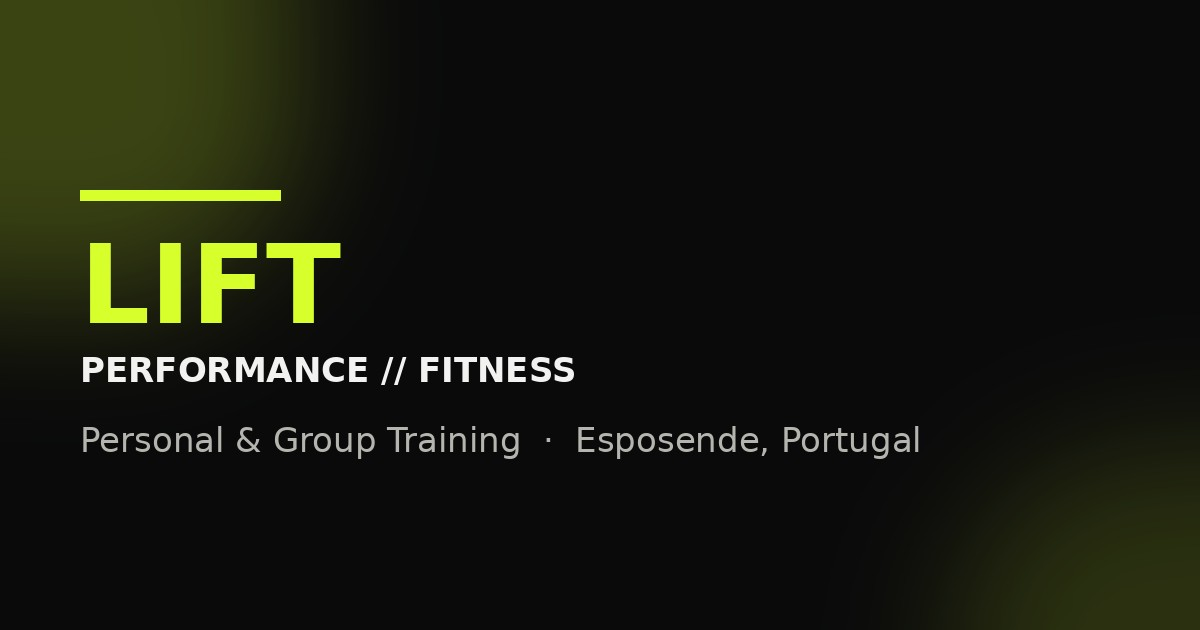
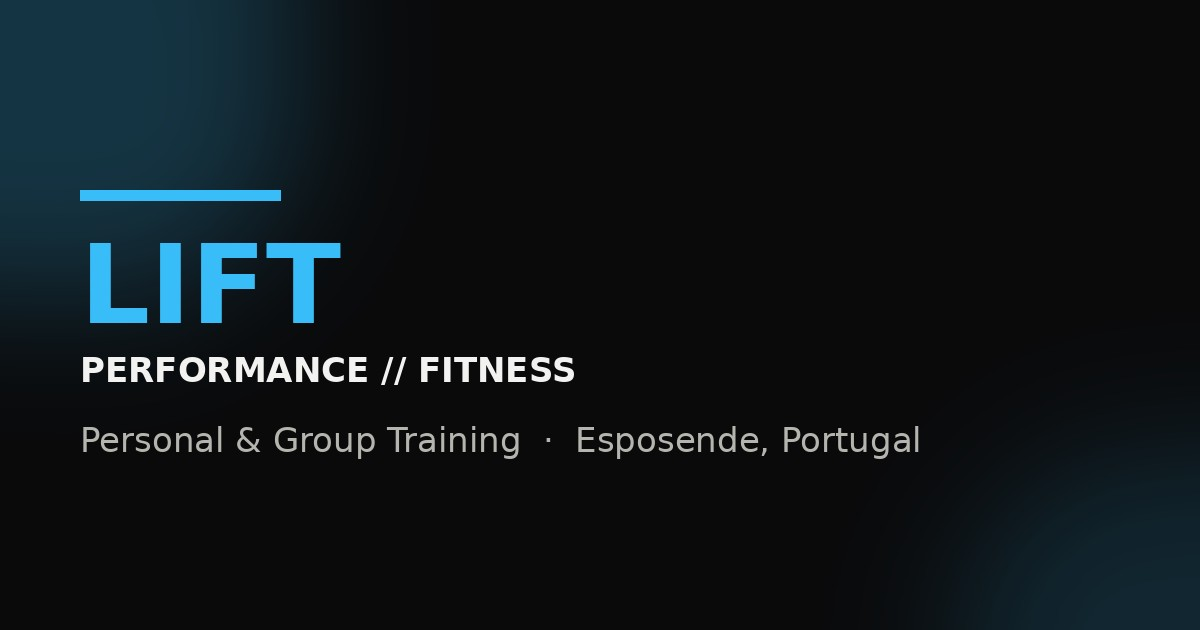
Swap accent color from lime to light blue
Renamed the --color-lift-lime CSS var (and its Tailwind utilities) to
--color-lift-blue and changed the value to a light/sky blue (#38bdf8,
dim #0ea5e9), replacing lime across every button, link, icon, and
badge. Also regenerated the favicon and OG image with the new color.

Claude-Session: https://claude.ai/code/session_01PQy3BjrcZzVoLCdcK5S7hn

Changed region(s): [[0.0, 0.0, 0.3083, 0.5429], [0.8325, 0.7841, 1.0, 1.0]]

diff --git a/src/routes/index.tsx b/src/routes/index.tsx
@@ -292,7 +292,7 @@ function LangToggle() {
           onClick={() => setLang(opt.value)}
           className={`rounded-full px-2.5 py-1 text-xs font-bold tracking-wide transition-colors ${
             lang === opt.value
-              ? 'bg-lift-lime text-ink'
+              ? 'bg-lift-blue text-ink'
               : 'text-white/60 hover:text-white'
           }`}
         >
@@ -326,7 +326,7 @@ function Header() {
       <div className="mx-auto flex max-w-6xl items-center justify-between px-5 py-4 sm:px-8">
         <a href="#top" className="text-xl font-black tracking-tight text-white">
           {BUSINESS_NAME}
-          <span className="text-lift-lime">.</span>
+          <span className="text-lift-blue">.</span>
         </a>
 
         <nav className="hidden items-center gap-7 lg:flex">
@@ -345,7 +345,7 @@ function Header() {
           <LangToggle />
           <a
             href={`tel:${PHONE_TEL}`}
-            className="rounded-full bg-lift-lime px-5 py-2.5 text-sm font-bold text-ink transition-transform hover:scale-105"
+            className="rounded-full bg-lift-blue px-5 py-2.5 text-sm font-bold text-ink transition-transform hover:scale-105"
           >
             {tr('nav_cta')}
           </a>
@@ -380,7 +380,7 @@ function Header() {
             <a
               href={`tel:${PHONE_TEL}`}
               onClick={() => setMenuOpen(false)}
-              className="mt-2 rounded-full bg-lift-lime px-5 py-3 text-center text-sm font-bold text-ink"
+              className="mt-2 rounded-full bg-lift-blue px-5 py-3 text-center text-sm font-bold text-ink"
             >
               {tr('nav_cta')}
             </a>
@@ -440,11 +440,11 @@ function Hero() {
         <source src={heroVideoMp4} type="video/mp4" />
       </video>
       <div className="absolute inset-0 bg-gradient-to-t from-ink via-ink/75 to-ink/45" />
-      <div className="pointer-events-none absolute -top-40 -left-40 h-96 w-96 rounded-full bg-lift-lime/20 blur-[120px]" />
-      <div className="pointer-events-none absolute top-1/3 -right-32 h-80 w-80 rounded-full bg-lift-lime/10 blur-[100px]" />
+      <div className="pointer-events-none absolute -top-40 -left-40 h-96 w-96 rounded-full bg-lift-blue/20 blur-[120px]" />
+      <div className="pointer-events-none absolute top-1/3 -right-32 h-80 w-80 rounded-full bg-lift-blue/10 blur-[100px]" />
 
       <div className="relative mx-auto flex min-h-[92svh] max-w-6xl flex-col justify-center px-5 py-24 sm:px-8">
-        <p className="mb-5 text-sm font-bold tracking-[0.25em] text-lift-lime uppercase">
+        <p className="mb-5 text-sm font-bold tracking-[0.25em] text-lift-blue uppercase">
           {tr('hero_eyebrow')}
         </p>
         <RotatingHeadline />
@@ -455,7 +455,7 @@ function Hero() {
         <div className="mt-9 flex flex-wrap items-center gap-4">
           <a
             href="#visit"
-            className="rounded-full bg-lift-lime px-7 py-4 text-sm font-bold text-ink transition-transform hover:scale-105"
+            className="rounded-full bg-lift-blue px-7 py-4 text-sm font-bold text-ink transition-transform hover:scale-105"
           >
             {tr('hero_cta_primary')}
           </a>
@@ -468,7 +468,7 @@ function Hero() {
         </div>
 
         <div className="mt-12 flex items-center gap-3 text-white">
-          <div className="flex text-lift-lime">
+          <div className="flex text-lift-blue">
             {Array.from({ length: 5 }).map((_, i) => (
               <IconStar key={i} className="h-4 w-4" />
             ))}
@@ -499,7 +499,7 @@ function Team() {
 
         <div className="mt-10 grid gap-6 lg:grid-cols-2">
           <div className="rounded-3xl border border-white/10 bg-charcoal p-7">
-            <p className="text-xs font-bold tracking-wide text-lift-lime uppercase">
+            <p className="text-xs font-bold tracking-wide text-lift-blue uppercase">
               {tr('team_story_label')}
             </p>
             <p className="mt-3 text-base leading-relaxed text-white/70 normal-case">
@@ -507,7 +507,7 @@ function Team() {
             </p>
           </div>
           <div className="rounded-3xl border border-white/10 bg-charcoal p-7">
-            <p className="text-xs font-bold tracking-wide text-lift-lime uppercase">
+            <p className="text-xs font-bold tracking-wide text-lift-blue uppercase">
               {tr('team_why_label')}
             </p>
             <p className="mt-3 text-lg leading-relaxed text-white italic normal-case">
@@ -521,7 +521,7 @@ function Team() {
             <div
               key={member.name}
               data-reveal
-              className="group relative overflow-hidden rounded-3xl border border-white/10 bg-charcoal p-6 transition-colors hover:border-lift-lime/40"
+              className="group relative overflow-hidden rounded-3xl border border-white/10 bg-charcoal p-6 transition-colors hover:border-lift-blue/40"
             >
               {member.photo ? (
                 <img
@@ -530,14 +530,14 @@ function Team() {
                   className="h-16 w-16 rounded-2xl object-cover"
                 />
               ) : (
-                <div className="grid h-16 w-16 place-items-center rounded-2xl bg-lift-lime/10 text-lg font-black text-lift-lime">
+                <div className="grid h-16 w-16 place-items-center rounded-2xl bg-lift-blue/10 text-lg font-black text-lift-blue">
                   {member.initials}
                 </div>
               )}
               <h3 className="mt-5 text-lg font-bold tracking-tight text-white normal-case">
                 {member.name}
               </h3>
-              <p className="mt-1 text-xs font-bold tracking-wide text-lift-lime uppercase">
+              <p className="mt-1 text-xs font-bold tracking-wide text-lift-blue uppercase">
                 {member.role[lang]}
               </p>
               <p className="mt-4 text-sm leading-relaxed text-white/60 normal-case opacity-0 max-h-0 transition-all duration-300 group-hover:max-h-40 group-hover:opacity-100">
@@ -575,7 +575,7 @@ function Services() {
               <div
                 key={plan.title.en}
                 data-reveal
-                className="overflow-hidden rounded-3xl border border-white/10 bg-ink transition-all hover:-translate-y-1 hover:border-lift-lime/40"
+                className="overflow-hidden rounded-3xl border border-white/10 bg-ink transition-all hover:-translate-y-1 hover:border-lift-blue/40"
               >
                 {plan.photo && (
                   <img
@@ -585,7 +585,7 @@ function Services() {
                   />
                 )}
                 <div className="p-7">
-                  <div className="grid h-12 w-12 place-items-center rounded-xl bg-lift-lime text-ink">
+                  <div className="grid h-12 w-12 place-items-center rounded-xl bg-lift-blue text-ink">
                     <Icon className="h-6 w-6" />
                   </div>
                   <h3 className="mt-6 text-xl font-bold text-white normal-case">
@@ -594,7 +594,7 @@ function Services() {
                   <p className="mt-2 text-sm leading-relaxed text-white/60 normal-case">
                     {plan.tagline[lang]}
                   </p>
-                  <p className="mt-3 text-sm leading-relaxed text-lift-lime italic normal-case">
+                  <p className="mt-3 text-sm leading-relaxed text-lift-blue italic normal-case">
                     {plan.quote[lang]}
                   </p>
                 </div>
@@ -626,7 +626,7 @@ function Reviews() {
               key={stat.labelKey}
               className="rounded-2xl border border-white/10 bg-charcoal py-6 text-center"
             >
-              <p className="text-3xl font-black text-lift-lime">{stat.value}</p>
+              <p className="text-3xl font-black text-lift-blue">{stat.value}</p>
               <p className="mt-1 text-xs font-semibold tracking-wide text-white/60 uppercase">
                 {tr(stat.labelKey)}
               </p>
@@ -641,7 +641,7 @@ function Reviews() {
               data-reveal
               className="rounded-3xl border border-white/10 bg-charcoal p-7"
             >
-              <div className="flex text-lift-lime">
+              <div className="flex text-lift-blue">
                 {Array.from({ length: 5 }).map((_, j) => (
                   <IconStar key={j} className="h-4 w-4" />
                 ))}
@@ -674,7 +674,7 @@ function Reviews() {
             href={GOOGLE_REVIEW_URL}
             target="_blank"
             rel="noreferrer"
-            className="rounded-full bg-lift-lime px-6 py-3.5 text-sm font-bold text-ink transition-transform hover:scale-105"
+            className="rounded-full bg-lift-blue px-6 py-3.5 text-sm font-bold text-ink transition-transform hover:scale-105"
           >
             {tr('reviews_leave')}
           </a>
@@ -701,17 +701,17 @@ function Hours() {
     <div className="rounded-3xl border border-white/10 bg-ink p-7">
       <div className="flex items-center justify-between">
         <h3 className="flex items-center gap-2 text-lg font-bold text-white normal-case">
-          <IconClock className="h-5 w-5 text-lift-lime" />
+          <IconClock className="h-5 w-5 text-lift-blue" />
           {tr('hours_title')}
         </h3>
         {isOpen !== null && (
           <span
             className={`flex items-center gap-1.5 rounded-full px-3 py-1 text-xs font-bold normal-case ${
-              isOpen ? 'bg-lift-lime/15 text-lift-lime' : 'bg-white/10 text-white/60'
+              isOpen ? 'bg-lift-blue/15 text-lift-blue' : 'bg-white/10 text-white/60'
             }`}
           >
             <span
-              className={`h-1.5 w-1.5 rounded-full ${isOpen ? 'bg-lift-lime' : 'bg-white/40'}`}
+              className={`h-1.5 w-1.5 rounded-full ${isOpen ? 'bg-lift-blue' : 'bg-white/40'}`}
             />
             {isOpen ? tr('hours_open_now') : tr('hours_closed_now')}
           </span>
@@ -723,7 +723,7 @@ function Hours() {
           <li
             key={row.dayKey}
             className={`flex items-center justify-between py-3 text-sm normal-case ${
-              currentDayKey === row.dayKey ? 'text-lift-lime' : 'text-white/70'
+              currentDayKey === row.dayKey ? 'text-lift-blue' : 'text-white/70'
             }`}
           >
             <span className="font-semibold">{tr(row.dayKey)}</span>
@@ -779,7 +779,7 @@ function Visit() {
             <Hours />
 
             <div className="rounded-3xl border border-white/10 bg-ink p-7">
-              <p className="text-xs font-bold tracking-wide text-lift-lime uppercase">
+              <p className="text-xs font-bold tracking-wide text-lift-blue uppercase">
                 {tr('address_label')}
               </p>
               <p className="mt-2 text-base font-semibold text-white normal-case">
@@ -793,7 +793,7 @@ function Visit() {
                     href={action.href}
                     target={action.href.startsWith('tel:') ? undefined : '_blank'}
                     rel={action.href.startsWith('tel:') ? undefined : 'noreferrer'}
-                    className="flex items-center gap-2 rounded-full border border-white/15 px-4 py-2.5 text-xs font-bold text-white transition-colors hover:border-lift-lime/50 hover:text-lift-lime"
+                    className="flex items-center gap-2 rounded-full border border-white/15 px-4 py-2.5 text-xs font-bold text-white transition-colors hover:border-lift-blue/50 hover:text-lift-blue"
                   >
                     {action.icon}
                     {tr(action.key)}
@@ -832,8 +832,8 @@ function FinalCta() {
         data-reveal
         className="relative mx-auto max-w-5xl overflow-hidden rounded-3xl border border-white/10 bg-charcoal px-8 py-16 text-center sm:px-16"
       >
-        <div className="pointer-events-none absolute -top-24 -left-24 h-72 w-72 rounded-full bg-lift-lime/20 blur-[100px]" />
-        <div className="pointer-events-none absolute -right-24 -bottom-24 h-72 w-72 rounded-full bg-lift-lime/20 blur-[100px]" />
+        <div className="pointer-events-none absolute -top-24 -left-24 h-72 w-72 rounded-full bg-lift-blue/20 blur-[100px]" />
+        <div className="pointer-events-none absolute -right-24 -bottom-24 h-72 w-72 rounded-full bg-lift-blue/20 blur-[100px]" />
 
         <div className="relative">
           <h2 className="text-4xl font-black text-white sm:text-5xl">{tr('final_cta_title')}</h2>
@@ -842,7 +842,7 @@ function FinalCta() {
           </p>
           <a
             href={`tel:${PHONE_TEL}`}
-            className="mt-8 inline-flex items-center gap-3 rounded-full bg-lift-lime px-8 py-4 text-lg font-bold text-ink transition-transform hover:scale-105"
+            className="mt-8 inline-flex items-center gap-3 rounded-full bg-lift-blue px-8 py-4 text-lg font-bold text-ink transition-transform hover:scale-105"
           >
             <IconPhone className="h-5 w-5" />
             {tr('final_cta_button')} · {PHONE_DISPLAY}
@@ -863,7 +863,7 @@ function Footer() {
         <div>
           <p className="text-xl font-black text-white">
             {BUSINESS_NAME}
-            <span className="text-lift-lime">.</span>
+            <span className="text-lift-blue">.</span>
           </p>
           <p className="mt-2 max-w-xs text-sm text-white/50 normal-case">{tr('footer_tagline')}</p>
         </div>
@@ -877,7 +877,7 @@ function Footer() {
               <a
                 key={link.key}
                 href={link.href}
-                className="text-sm text-white/60 transition-colors hover:text-lift-lime"
+                className="text-sm text-white/60 transition-colors hover:text-lift-blue"
               >
                 {tr(link.key)}
               </a>
@@ -890,14 +890,14 @@ function Footer() {
             href={INSTAGRAM_URL}
             target="_blank"
             rel="noreferrer"
-            className="flex items-center gap-2 text-sm font-semibold text-white/70 transition-colors hover:text-lift-lime"
+            className="flex items-center gap-2 text-sm font-semibold text-white/70 transition-colors hover:text-lift-blue"
           >
             <IconInstagram className="h-4 w-4" />
             {INSTAGRAM_HANDLE}
           </a>
           <a
             href={`tel:${PHONE_TEL}`}
-            className="flex items-center gap-2 text-sm font-semibold text-white/70 transition-colors hover:text-lift-lime"
+            className="flex items-center gap-2 text-sm font-semibold text-white/70 transition-colors hover:text-lift-blue"
           >
             <IconPhone className="h-4 w-4" />
             {PHONE_DISPLAY}
@@ -918,7 +918,7 @@ function MobileCallBar() {
   return (
     <a
       href={`tel:${PHONE_TEL}`}
-      className="fixed inset-x-4 bottom-4 z-50 flex items-center justify-center gap-2 rounded-full bg-lift-lime py-4 text-sm font-bold text-ink shadow-[0_10px_30px_rgba(0,0,0,0.4)] sm:hidden"
+      className="fixed inset-x-4 bottom-4 z-50 flex items-center justify-center gap-2 rounded-full bg-lift-blue py-4 text-sm font-bold text-ink shadow-[0_10px_30px_rgba(0,0,0,0.4)] sm:hidden"
     >
       <IconPhone className="h-4 w-4" />
       {tr('mobile_call_cta')}
@@ -937,7 +937,7 @@ function SectionHeading({
 }) {
   return (
     <div className="max-w-2xl">
-      <p className="text-xs font-bold tracking-[0.25em] text-lift-lime uppercase">{eyebrow}</p>
+      <p className="text-xs font-bold tracking-[0.25em] text-lift-blue uppercase">{eyebrow}</p>
       <h2 className="mt-3 text-3xl font-black text-white sm:text-4xl">{title}</h2>
       {subtitle && <p className="mt-4 text-base text-white/60 normal-case">{subtitle}</p>}
     </div>

diff --git a/src/index.css b/src/index.css
@@ -8,8 +8,8 @@
   --color-charcoal: #131316;
   --color-charcoal-2: #1c1c21;
   --color-line: #2a2a30;
-  --color-lift-lime: #d7ff2b;
-  --color-lift-lime-dim: #a8cc1f;
+  --color-lift-blue: #38bdf8;
+  --color-lift-blue-dim: #0ea5e9;
 }
 
 @layer base {
@@ -52,7 +52,7 @@
 }
 
 ::selection {
-  background: var(--color-lift-lime);
+  background: var(--color-lift-blue);
   color: var(--color-ink);
 }
 
